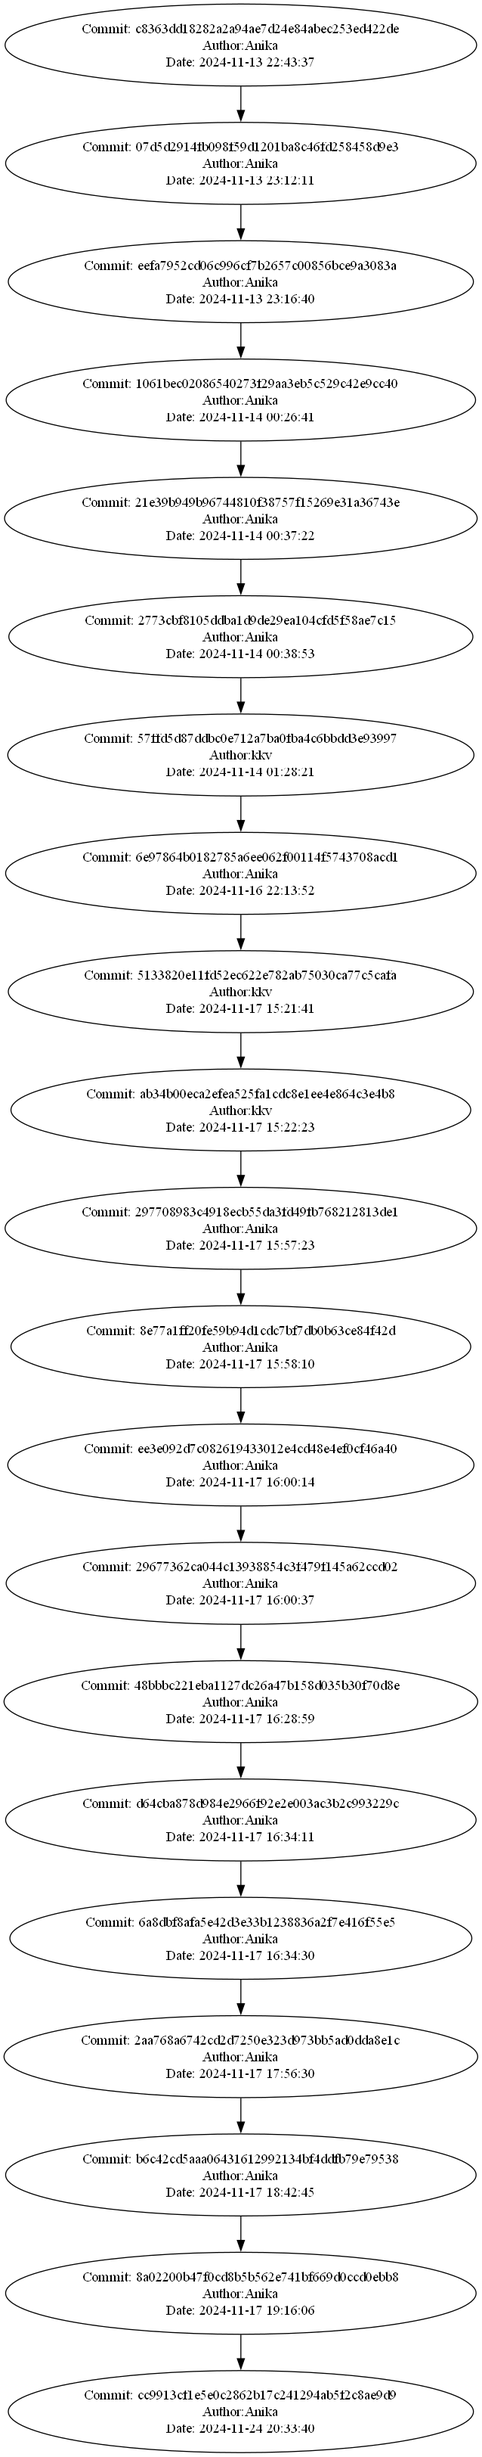
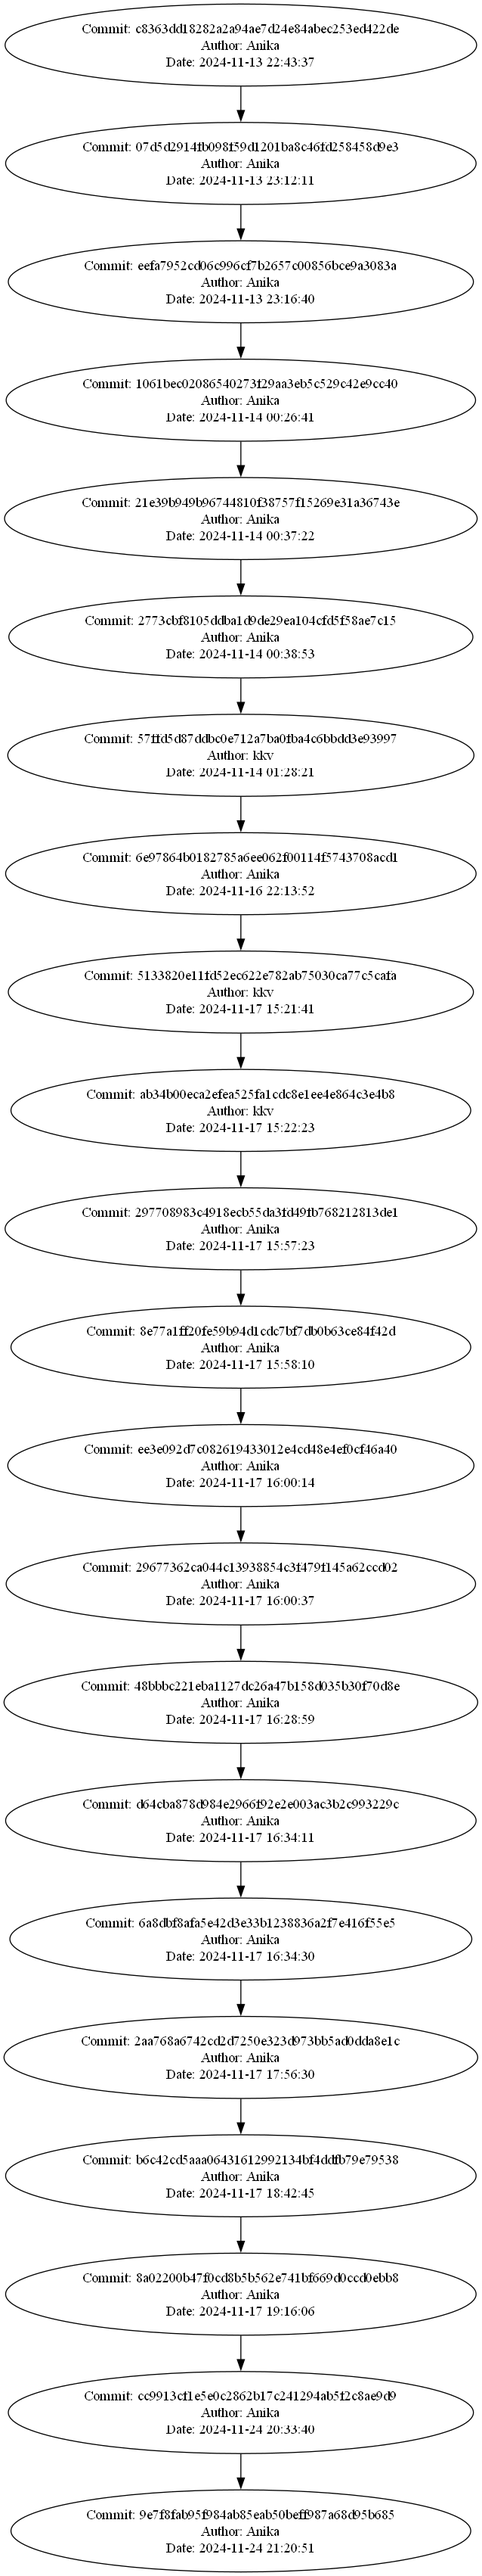
Doxygen

diff --git a/task3/interpritator.py b/task3/interpritator.py
@@ -1,0 +1,127 @@
+import re
+import json
+import sys
+from typing import Any, Dict
+
+class ConfigParser:
+    def __init__(self):
+        self.constants = {}
+        self.variables = {}
+
+    def parse(self, text: str) -> Dict[str, Any]:
+        text = self.remove_comments(text)
+        self.parse_dicts(text)
+        text = self.remove_dicts_block(text)
+        self.evaluate_expressions(text)
+        return self.variables
+
+    def remove_comments(self, text: str) -> str:
+        text = re.sub(r'/\+.*?\+/s', '', text, flags=re.DOTALL)  # Remove multiline comments
+        return text
+
+    def remove_dicts_block(self, text: str) -> str:
+        text = re.sub(r"\{(.*?)\}", '', text, flags=re.DOTALL)  # Remove multiline comments
+        return text
+
+    def infixToPostfix(self, expression: str) -> str:
+        precedence = {'+': 1, '-': 1, '*': 2, '/': 2, 'abs': 3, 'mod': 3}
+        output = []
+        stack = []
+        tokens = expression.split(' ')
+
+        for token in tokens:
+            if (token.isdigit() or (token.startswith('-') and token[1:].isdigit())) or token in ['abs', 'mod']:  # Если это операнд (число или функция)
+                output.append(token)
+            elif token.isalnum():  # Если это переменная
+                output.append(token)
+            elif token in precedence:  # Если это оператор
+                while (stack and stack[-1] != '(' and
+                       precedence.get(token, 0) <= precedence.get(stack[-1], 0)):
+                    output.append(stack.pop())
+                stack.append(token)
+            elif token == '(':
+                stack.append(token)
+            elif token == ')':
+                while stack and stack[-1] != '(':
+                    output.append(stack.pop())
+                stack.pop()  # Убираем открывающую скобку
+
+        res = output[0]
+        pos = 1
+        while stack:
+            res += stack.pop() + output[pos]
+            pos = pos + 1
+            #output.append(stack.pop())
+
+        #return ' '.join(output)
+        return res
+
+    def parse_dicts(self, text: str):
+        dict_pattern = r"\{(.*?)\}"  # Matches dictionary blocks
+        dict_matches = re.findall(dict_pattern, text, re.DOTALL)
+
+        for block in dict_matches:
+            entries = re.findall(r"([a-z0-9]+) = (.*?);", block)
+            for key, value in entries:
+                if (value.isdigit() or (value.startswith('-') and value[1:].isdigit())):
+                    self.variables[key] = int(value)
+                elif re.match(r"^'.*?'$", value, flags=re.DOTALL):
+                    self.variables[key] = value.strip("'")
+                elif value in self.constants:
+                    self.variables[key] = self.constants[value]
+                else:
+                    raise ValueError(f"Invalid value for key {key}: {value}")
+
+    def evaluate_expressions(self, text: str):
+        expr_pattern = r"([a-z0-9]+) = (.+?);"
+        matches = re.findall(expr_pattern, text)
+        for var_name, expression in matches:
+            try:
+                # Replace variables in the expression with their current values
+                for key, value in self.variables.items():
+                    expression = expression.replace(key, str(value))
+
+                # print(f"var:{var_name} = {expression}")
+                # postfix to infix
+                # expression = self.infixToPostfix(expression)
+
+                # Evaluate the expression safely
+                self.variables[var_name] = eval(expression)
+            except Exception as e:
+                raise ValueError(f"Error evaluating expression for {var_name}: {expression} ({e})")
+
+    def save_to_json(self, data: Dict[str, Any], output_file: str):
+        output_data = {
+            "variables": self.variables
+        }
+        with open(output_file, 'w') as f:
+            json.dump(output_data, f, indent=4)
+        print(json.dumps(output_data, indent=4))
+
+if __name__ == "__main__":
+    try:
+        with open("config.txt", "r") as config_file:
+            lines = config_file.readlines()
+            settings = {}
+            for line in lines:
+                if line.strip().startswith("outputFile"):
+                    settings["outputFile"] = line.split("=")[1].strip()
+                elif line.strip().startswith("inputFile"):
+                    settings["inputFile"] = line.split("=")[1].strip()
+
+        input_file = settings.get("inputFile")
+        output_file = settings.get("outputFile")
+
+        if not input_file or not output_file:
+            raise ValueError("Both inputFile and outputFile must be specified in the settings section of config.txt")
+
+        with open(input_file, "r") as infile:
+            input_text = infile.read()
+
+        parser = ConfigParser()
+        parsed_data = parser.parse(input_text)
+        parser.save_to_json(parsed_data, output_file)
+
+        print(f"Parsing successful. Output saved to {output_file}")
+    except Exception as e:
+        print(f"Error: {e}")

diff --git a/task3/test.py b/task3/test.py
@@ -1,0 +1,85 @@
+import unittest
+from unittest.mock import patch
+from interpritator import ConfigParser
+import json
+
+class TestConfigParser(unittest.TestCase):
+
+    def test_remove_comments(self):
+        parser = ConfigParser()
+        input_text = """
+        /* This is a comment */
+        key = 123;
+        /* Another
+        multiline
+        comment */
+        value = 'test';
+        """
+        expected_output = "key = 123;\nvalue = 'test';\n"
+        self.assertEqual(parser.remove_comments(input_text), expected_output)
+
+    def test_remove_dicts_block(self):
+        parser = ConfigParser()
+        input_text = """
+        {key1 = 123;
+        key2 = 'value';}
+        key3 = 456;
+        """
+        expected_output = "key3 = 456;\n"
+        self.assertEqual(parser.remove_dicts_block(input_text), expected_output)
+
+    def test_parse_dicts(self):
+        parser = ConfigParser()
+        input_text = """
+        {key1 = 123;
+        key2 = 'value';
+        key3 = 456;}
+        """
+        parser.parse_dicts(input_text)
+        expected_variables = {
+            "key1": 123,
+            "key2": "value",
+            "key3": 456
+        }
+        self.assertEqual(parser.variables, expected_variables)
+
+    def test_evaluate_expressions(self):
+        parser = ConfigParser()
+        parser.variables = {
+            "key1": 2,
+            "key2": 3
+        }
+        input_text = "key3 = key1 + key2;"
+        parser.evaluate_expressions(input_text)
+        expected_variables = {
+            "key1": 2,
+            "key2": 3,
+            "key3": 5
+        }
+        self.assertEqual(parser.variables, expected_variables)
+
+    def test_evaluate_expressions_invalid(self):
+        parser = ConfigParser()
+        parser.variables = {
+            "key1": 2
+        }
+        input_text = "key2 = key3 + 4;"
+        with self.assertRaises(ValueError) as context:
+            parser.evaluate_expressions(input_text)
+        self.assertTrue("Error evaluating expression for key2" in str(context.exception))
+
+    def test_save_to_json(self):
+        parser = ConfigParser()
+        parser.variables = {
+            "key1": 123,
+            "key2": "value"
+        }
+        with patch("builtins.open", unittest.mock.mock_open()) as mocked_file:
+            parser.save_to_json(parser.variables, "output.json")
+            mocked_file.assert_called_once_with("output.json", 'w')
+            mocked_file().write.assert_called_once_with(
+                json.dumps({"variables": parser.variables}, indent=4)
+            )
+
+if __name__ == "__main__":
+    unittest.main()

diff --git a/task2/git/show_commits.py b/task2/git/show_commits.py
@@ -65,7 +65,7 @@ def build_dependency_graph(commits: List[Tuple[str, str, str]]) -> Digraph:
         dot.node(str(i), f"Commit: {commit}\nAuthor: {author}\nDate: {date}")
         if i > 0:
             dot.edge(str(i - 1), str(i))  # Connect commits in chronological order
-
+    print(dot)
     return dot
 
 
